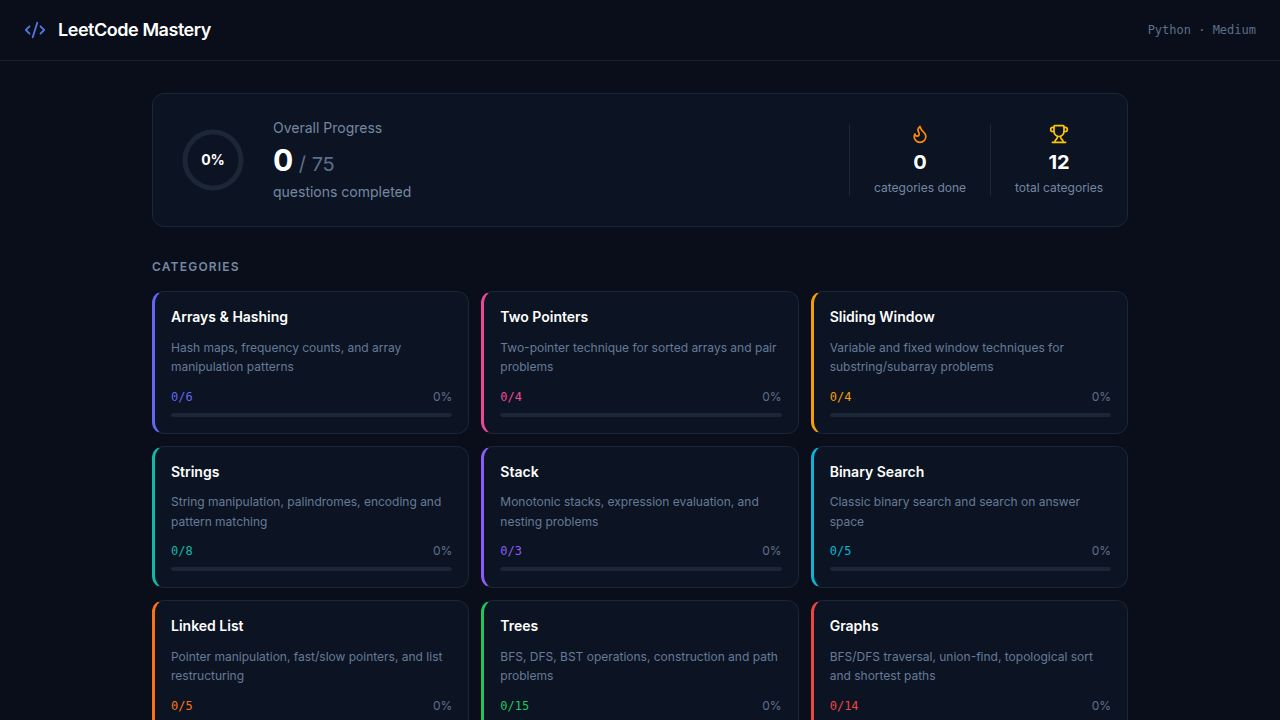
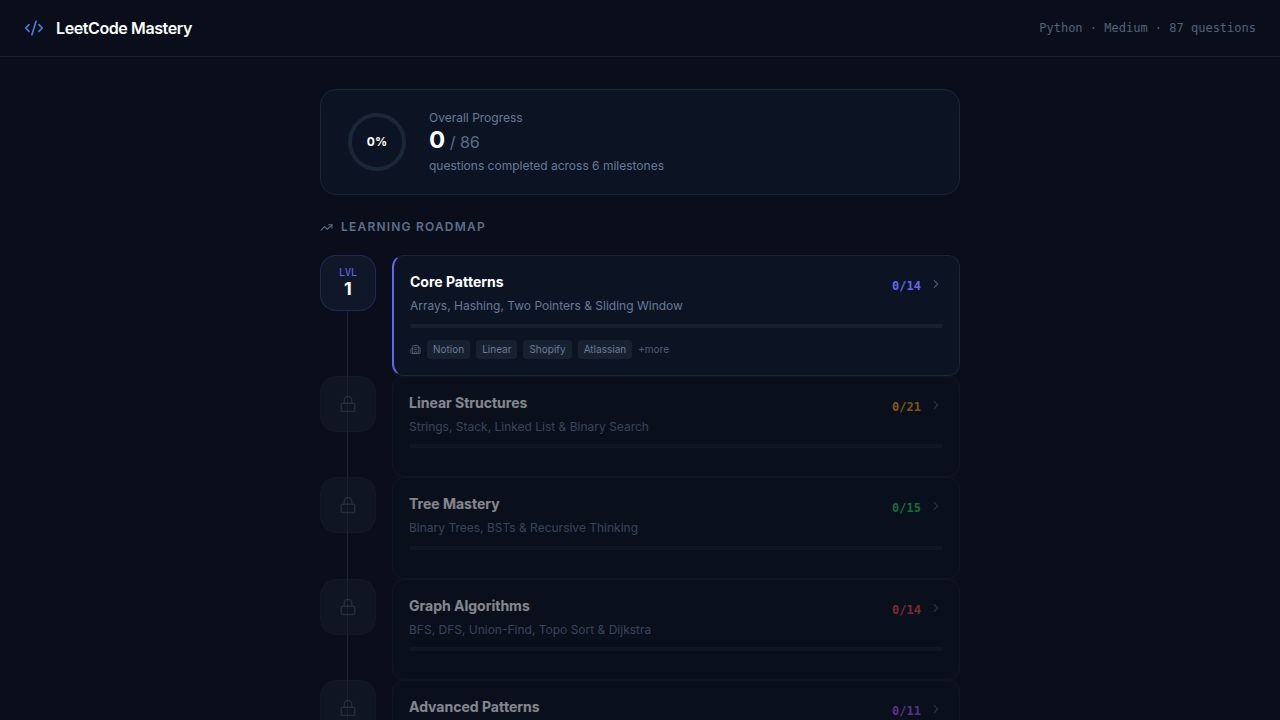
Add an impressive README with interactive screenshots
Create a README.md file with embedded screenshots, badges, and detailed project information, including a roadmap and question breakdown.

Replit-Commit-Author: Agent
Replit-Commit-Session-Id: c676cca2-590e-4d73-bb85-4553f0d35691
Replit-Commit-Checkpoint-Type: full_checkpoint
Replit-Commit-Event-Id: d231313d-083b-4fae-8b01-2a929953a521
Replit-Commit-Screenshot-Url: https://storage.googleapis.com/screenshot-production-us-central1/ad0f6943-6a2e-41e2-9c28-c24a94b65cd3/c676cca2-590e-4d73-bb85-4553f0d35691/Eofi4Lp
Replit-Helium-Checkpoint-Created: true

diff --git a/README.md b/README.md
@@ -1,0 +1,186 @@
+# LeetCode Mastery Tracker
+
+> A structured 6-milestone learning roadmap for Python interview preparation — 87 curated Medium questions with plain-English explanations, step-by-step approaches, complexity analysis, company signals, and progress tracking built in.
+
+![Python](https://img.shields.io/badge/Python-Focus-3776AB?style=flat-square&logo=python&logoColor=white)
+![Questions](https://img.shields.io/badge/Questions-87_Medium-F59E0B?style=flat-square)
+![Milestones](https://img.shields.io/badge/Milestones-6_Levels-6366F1?style=flat-square)
+![Stack](https://img.shields.io/badge/Stack-React_%2B_Vite-61DAFB?style=flat-square&logo=react&logoColor=white)
+![Storage](https://img.shields.io/badge/Storage-localStorage-10B981?style=flat-square)
+
+---
+
+## What It Is
+
+Most LeetCode prep resources dump 300+ problems at you with no sequence, no explanation of *why* patterns work, and no sense of what level of readiness you've actually reached. This app fixes that.
+
+**LeetCode Mastery Tracker** is a focused, opinionated roadmap: 87 carefully chosen Medium-difficulty questions organized across 6 progressive milestones. Each question teaches a reusable pattern. Each milestone unlocks the next. Every question comes with a plain-English breakdown so you understand the concept — not just the code.
+
+---
+
+## Screenshots
+
+### The Learning Roadmap — Your Home Base
+
+Six milestones, sequentially locked. Company hiring signals per milestone. Overall progress at a glance.
+
+![Home Roadmap](screenshots/home-roadmap.jpg)
+
+---
+
+### Milestone Detail — Questions Organized by Pattern
+
+Each milestone groups questions by category, shows per-category progress bars, and lists which skills you'll master.
+
+![Milestone 1 — Core Patterns](screenshots/milestone-m1.jpg)
+
+---
+
+### Milestone 6 — Dynamic Programming
+
+The final milestone. 12 questions covering every core DP family: 1D/2D, knapsack, LIS, LCS, string DP, and state machines.
+
+![Milestone 6 — Dynamic Programming](screenshots/milestone-m6.jpg)
+
+---
+
+### Question Detail — Plain English + Step-by-Step Approach
+
+Every question has: concept tags, a layman explanation of what's actually happening, a numbered algorithmic approach, time/space complexity, and related patterns to reinforce learning.
+
+![Question Detail — Group Anagrams](screenshots/question-detail.jpg)
+
+---
+
+### DP Question — Coin Change
+
+The same rich detail applied to a Dynamic Programming question: concepts, plain-English intuition, exact approach, complexity.
+
+![Question Detail — Coin Change](screenshots/question-dp.jpg)
+
+---
+
+## The 6-Milestone Roadmap
+
+| Level | Milestone | Categories | Questions | Confidence Tier |
+|-------|-----------|------------|-----------|-----------------|
+| 1 | **Core Patterns** | Arrays & Hashing, Two Pointers, Sliding Window | 14 | Building |
+| 2 | **Linear Structures** | Strings, Stack, Linked List, Binary Search | 21 | Solid |
+| 3 | **Tree Mastery** | Binary Trees, BSTs, Recursive Thinking | 15 | Solid |
+| 4 | **Graph Algorithms** | BFS, DFS, Union-Find, Topo Sort, Dijkstra | 14 | Strong |
+| 5 | **Advanced Patterns** | Heap, Greedy, Backtracking | 11 | Strong |
+| 6 | **Dynamic Programming** | 1D/2D DP, Knapsack, LIS, LCS, State Machines | 12 | Elite |
+
+Milestones are locked sequentially — you unlock the next by completing the current one.
+
+---
+
+## What Each Question Includes
+
+- **Concept tags** — the data structures and techniques used
+- **Plain-English explanation** — what's actually happening, no jargon
+- **Step-by-step approach** — numbered algorithmic walkthrough, Python-idiomatic
+- **Time complexity** — with a brief justification
+- **Space complexity** — with a brief justification
+- **Related patterns** — 2–3 problems that reinforce the same technique
+- **LeetCode link** — opens the problem directly
+- **Mark done** — checkbox that saves your progress to localStorage
+
+---
+
+## Company Signals Per Milestone
+
+Each milestone shows which companies test those patterns and at what confidence level, so you know exactly what completing each level unlocks on the job market.
+
+| Confidence | Meaning |
+|------------|---------|
+| Building | Mid-level roles at product companies (Notion, Linear, Shopify) |
+| Solid | Strong mid-level at startups + FAANG internships (Stripe, Airbnb) |
+| Strong | Senior at FAANG, quant firms (Jane Street, Citadel, Two Sigma) |
+| Elite | FAANG all levels, AI research labs (OpenAI, Anthropic, DeepMind) |
+
+---
+
+## Milestone 6 — Dynamic Programming Coverage
+
+The DP milestone covers every major pattern family:
+
+| # | Question | LeetCode | Pattern |
+|---|----------|----------|---------|
+| 76 | House Robber II | #213 | 1D DP — Circular Array |
+| 77 | Coin Change | #322 | Unbounded Knapsack |
+| 78 | Partition Equal Subset Sum | #416 | 0/1 Knapsack |
+| 79 | Longest Increasing Subsequence | #300 | LIS + Binary Search O(n log n) |
+| 80 | Unique Paths | #62 | 2D Grid DP |
+| 81 | Jump Game | #55 | Greedy / 1D DP |
+| 82 | Jump Game II | #45 | Greedy BFS |
+| 83 | Word Break | #139 | String DP / BFS |
+| 84 | Longest Common Subsequence | #1143 | 2D String DP |
+| 85 | Minimum Path Sum | #64 | 2D Grid DP |
+| 86 | Maximum Product Subarray | #152 | DP — Track Min & Max |
+| 87 | Best Time to Buy & Sell Stock w/ Cooldown | #309 | State Machine DP |
+
+---
+
+## Tech Stack
+
+- **React 18 + Vite** — fast HMR, zero-config build
+- **Tailwind CSS** — utility-first dark-theme styling
+- **wouter** — lightweight client-side routing
+- **lucide-react** — consistent icon set
+- **localStorage** — zero-backend progress persistence; works offline, no account required
+- **TypeScript** — all data fully typed (questions, categories, milestones, details)
+- **pnpm workspaces** — monorepo with shared tooling
+
+---
+
+## Project Structure
+
+```
+artifacts/leetcode-tracker/src/
+├── data/
+│   ├── questions.ts        # All 87 question definitions + 13 category metadata objects
+│   ├── questionDetails.ts  # Rich per-question detail (concepts, approach, complexity)
+│   └── roadmap.ts          # 6 milestone definitions with company signals
+├── pages/
+│   ├── RoadmapPage.tsx     # Home — milestone roadmap with progress + lock/unlock logic
+│   ├── MilestonePage.tsx   # Per-milestone view — categories, questions, concepts mastered
+│   ├── CategoryPage.tsx    # Per-category question list
+│   └── QuestionDetail.tsx  # Full question breakdown page
+├── hooks/
+│   └── useProgress.ts      # localStorage read/write for completed question IDs
+└── App.tsx                 # wouter routing config
+```
+
+---
+
+## Running Locally
+
+```bash
+# Install dependencies
+pnpm install
+
+# Start the dev server
+pnpm --filter @workspace/leetcode-tracker run dev
+```
+
+The app runs at `http://localhost:5173` (or the port assigned by the environment).
+
+---
+
+## Design Decisions
+
+- **No backend, no auth** — progress lives in localStorage. The point is frictionless daily practice, not account management.
+- **Medium-only, Python-only** — scope is intentional. Easy questions don't build interview muscle; Hard questions are demoralizing before patterns are internalized. Medium + pattern-first is the most efficient path.
+- **Sequential milestones** — arbitrary shuffling is the enemy of depth. Graphs before DP. Trees before graphs. The sequence matters.
+- **Plain English first** — before showing the algorithm, every question explains the intuition in a way you could describe to a non-engineer. If you can explain it, you can code it.
+- **Company signals** — abstract "you're ready for senior roles" advice is useless. Concrete company + confidence tier mapping makes the prep feel purposeful.
+
+---
+
+## Progress Tracking
+
+Progress is saved automatically to `localStorage` under the key `leetcode-mastery-progress`. No account, no sync — it just works. Clearing browser storage resets all progress.
+
+Completion state flows up through the UI:
+- Question checkboxes → category progress bars → milestone progress → overall percentage ring